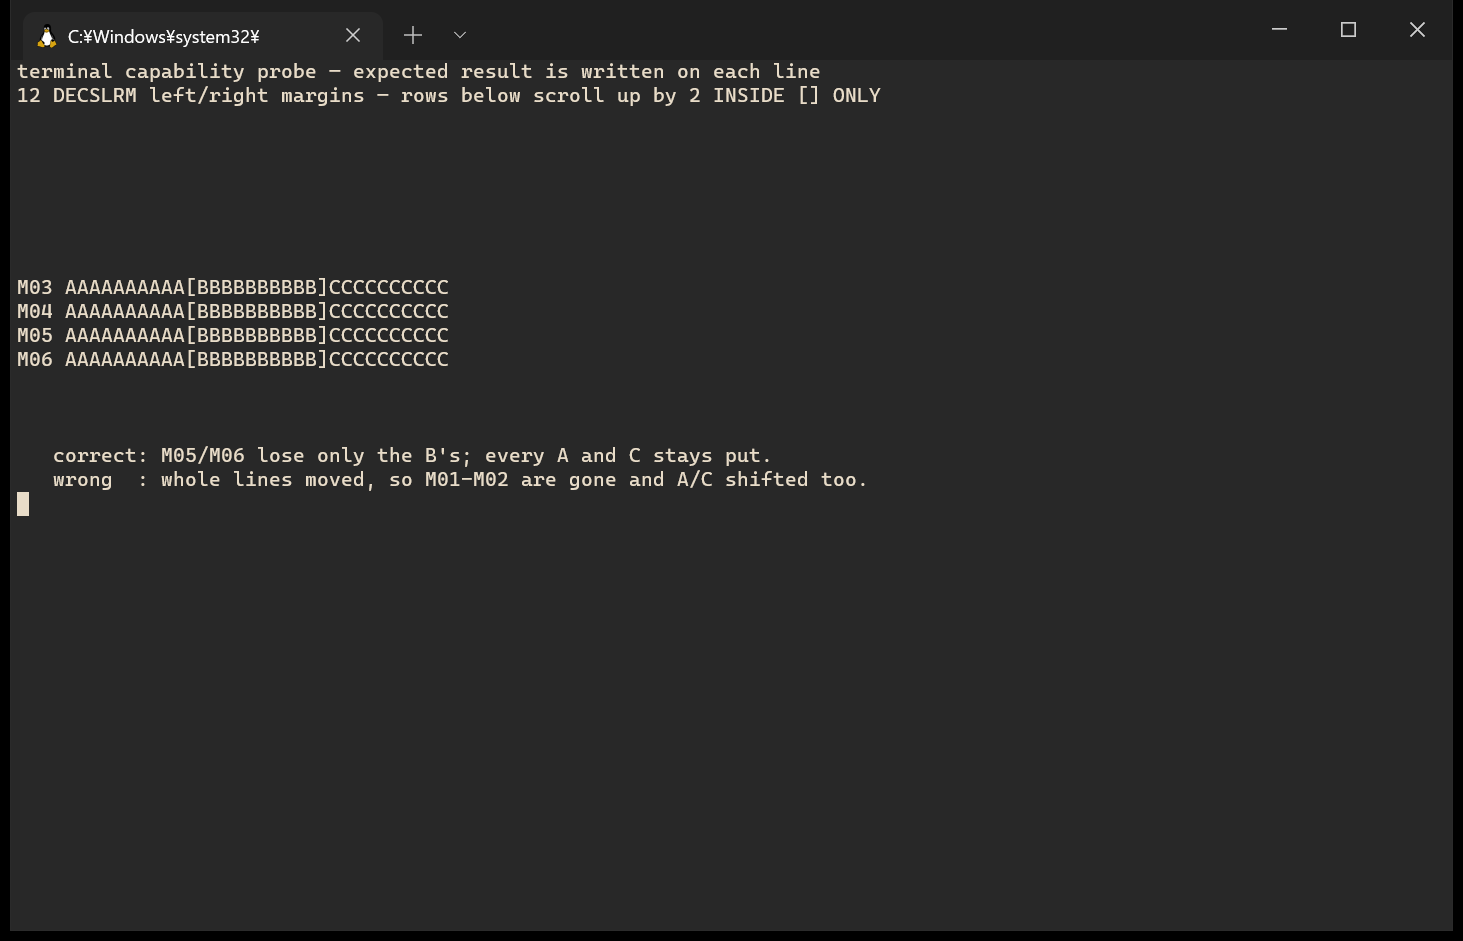
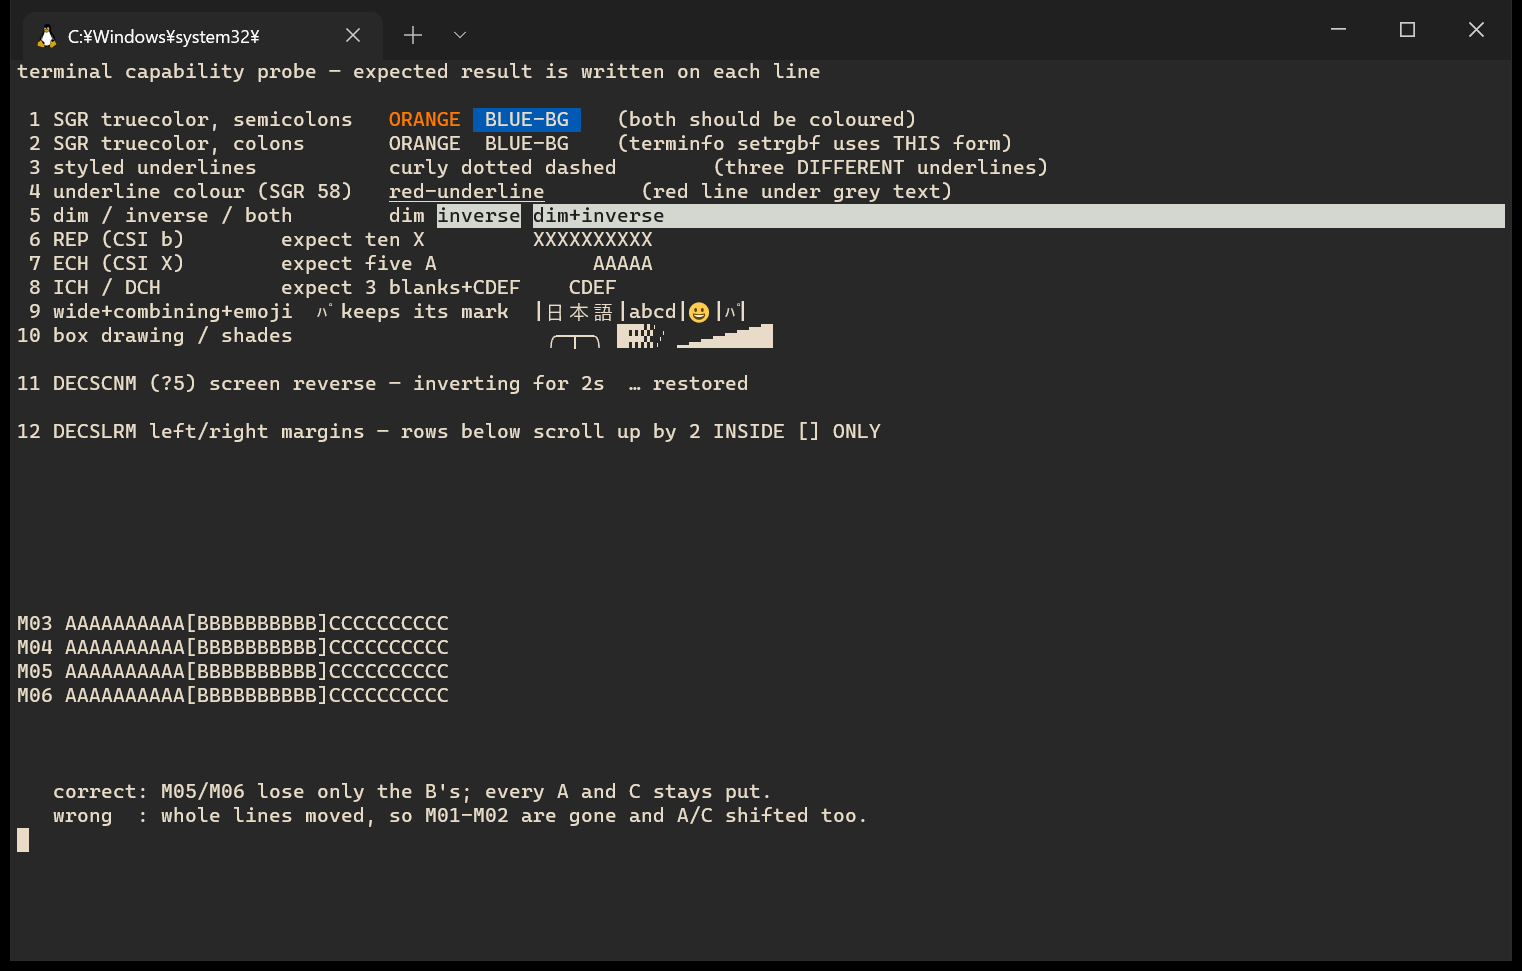
docs(compat): add wezterm, and say what the in-box conhost really drops
wezterm belongs in this comparison: it drives the shell through a ConPTY
pair it sideloads beside its exe, exactly as we do, so it is a like-for-like
engine reading rather than a screenshot of the system host.

The shipping stable, 20240203, fails rows 2, 3 and 4 — and they share a
cause. All three are colon-separated SGR sub-parameters; the semicolon forms
work and the plain CSI 4 m underline appears. Only the colon syntax is
unparsed. The 20260716 nightly closes all three and passes twelve of twelve,
so it goes in an aside: stable is what a user gets by default, but "does
wezterm support this" is honestly answered by the current code.

Colour rows are now settled by sampling pixels instead of by eye. The probe
asks for 58:2::255:80:80 and a row of exactly (255,80,80) runs the width of
"red-underline": 182 px in Windows Terminal, 169 in the nightly, zero in
wezterm 20240203.

The host section was understating its own case. Re-shot against the in-box
conhost, with the display allowed to settle first, three things are missing,
not one: DECSLRM, colon-form truecolor (the coloured band is one text row
instead of two, ~half the pixels) and the SGR 58 underline colour (not one
red pixel). That matters more than the margin row on its own, because the
xterm-ghostty entry spells setrgbf with colons — on that host a terminal
claiming the entry cannot honour its own terminfo.

It also drops the implication that old hosts are the problem. DECSLRM
[…]

diff --git a/docs/compat/README.md b/docs/compat/README.md
@@ -14,40 +14,80 @@ bash docs/compat/terminal-capability-probe.sh
 ```
 
 Captured on Windows 10 build 19045 — in-box `conhost.exe` 10.0.19041.4522,
-sideloaded `OpenConsole.exe` 1.24.2605.12001 — with the shell reached through
-`wsl.exe`. Both numbers matter; see below.
+sideloaded `OpenConsole.exe` 1.24.2607.10001 — with the shell reached through
+`wsl.exe`.
 
-The two screenshots below are the same script at the same font (Cascadia Mono
-13pt) and the same window size. Both terminals feed their shell through a
-modern ConPTY — RikkaTerminal through the `conpty.dll` + `OpenConsole.exe`
-pair it ships, Windows Terminal through the one it bundles — so the
-differences between them are engine behaviour. (That premise is not free on
-Windows; see [On Windows the console host counts too](#on-windows-the-console-host-counts-too).)
+## How these were captured, and where they fall short
 
-## RikkaTerminal
+Two things about this machine are worth stating up front, because both cost
+us a wrong reading before they were understood.
 
-![RikkaTerminal running the probe](probe-rikka-terminal.png)
+**The font is not pinned across all three.** Windows Terminal and
+RikkaTerminal are both Cascadia Mono 13pt. wezterm is **not**: on this machine
+`wezterm.font('Cascadia Mono')` aborts the process inside DirectWrite —
+`dwrote-0.11.0/src/font_family.rs:53: assertion failed: hr == 0` — and it does
+so in the 2024 stable and the 2026 nightly alike, so it is the environment
+rather than one build. The wezterm shots therefore use its default font at
+11pt. Compare the capabilities, not the typography, and do not read anything
+into glyph shapes in those two images.
+
+**The screen is not stable immediately after the probe.** Line 11 restores
+from DECSCNM with `?5l`, and for several seconds afterwards a repaint can be
+incomplete — foreground text missing while backgrounds and emoji are already
+there. Screenshots taken ~10s in were missing the first ten lines entirely;
+the same window at ~30s was complete. Seen on wezterm and on RikkaTerminal
+driven by the in-box conhost. **Wait for the display to settle before
+capturing**, or you will publish a picture of a repaint and call it a
+capability.
+
+Captures here are taken with `PrintWindow(PW_RENDERFULLCONTENT)` against a
+background window, from a DPI-aware process. Never with synthetic keystrokes:
+those go to whatever holds focus, which is not necessarily the window under
+test (see the warning at the top of `e2e/rikka-sixel-local.ps1`).
 
 ## Windows Terminal
 
 ![Windows Terminal running the probe](probe-windows-terminal.png)
 
+## wezterm
+
+![wezterm running the probe](probe-wezterm.png)
+
+`wezterm-gui.exe 20240203-110809-5046fc22` — the current stable install on
+this machine.
+
+## RikkaTerminal
+
+![RikkaTerminal running the probe](probe-rikka-terminal.png)
+
 ## Results
 
-| # | Capability | Windows Terminal | RikkaTerminal |
-|---|------------|------------------|---------------|
-| 1 | SGR truecolor, semicolons | yes | yes |
-| 2 | SGR truecolor, **colons** (`38:2:r:g:b`) | **no** | **yes** |
-| 3 | Styled underlines (curly / dotted / dashed) | yes | yes |
-| 4 | Underline colour (SGR 58) | yes | yes |
-| 5 | dim / inverse / both | yes | yes |
-| 6 | REP (`CSI b`) | yes | yes |
-| 7 | ECH (`CSI X`) | yes | yes |
-| 8 | ICH / DCH | yes | yes |
-| 9 | Wide chars, combining marks, emoji | mark dropped from `ﾊﾟ` | composed |
-| 10 | Box drawing and shade blocks | font glyphs | drawn as geometry |
-| 11 | DECSCNM (`?5`) screen reverse | yes | yes |
-| 12 | **DECSLRM left/right margins** | yes | **yes** |
+| # | Capability | Windows Terminal | wezterm 20240203 | RikkaTerminal |
+|---|------------|------------------|------------------|---------------|
+| 1 | SGR truecolor, semicolons | yes | yes | yes |
+| 2 | SGR truecolor, **colons** (`38:2:r:g:b`) | **no** | **no** | **yes** |
+| 3 | Styled underlines (curly / dotted / dashed) | yes | **no** | yes |
+| 4 | Underline colour (SGR 58) | yes | **no** | yes |
+| 5 | dim / inverse / both | yes | yes | yes |
+| 6 | REP (`CSI b`) | yes | yes | yes |
+| 7 | ECH (`CSI X`) | yes | yes | yes |
+| 8 | ICH / DCH | yes | yes | yes |
+| 9 | Wide chars, combining marks, emoji | mark dropped from `ﾊﾟ` | composed | composed |
+| 10 | Box drawing and shade blocks | font glyphs | font glyphs | drawn as geometry |
+| 11 | DECSCNM (`?5`) screen reverse | yes | yes | yes |
+| 12 | DECSLRM left/right margins | yes | yes | yes |
+
+Rows 1, 2 and 4 are colour claims, so they were checked by sampling pixels
+rather than by eye. The SGR 58 underline is the clearest: the probe asks for
+`58:2::255:80:80`, and a row of exactly `(255, 80, 80)` runs the width of the
+words `red-underline` — 182 px in Windows Terminal, 169 px in the wezterm
+nightly, **zero** in wezterm 20240203.
+
+wezterm 20240203 fails 2, 3 and 4 together, and they have one thing in
+common: all three are **colon-separated SGR sub-parameters**. The semicolon
+forms on line 1 work, and the plain `CSI 4 m` underline on line 4 appears —
+it is only the colon syntax that is not parsed. See the aside below; the
+nightly closes all three.
 
 ## On Windows the console host counts too
 
@@ -55,7 +95,8 @@ Every terminal here drives the shell through ConPTY, so what reaches its
 engine is whatever the console host chose to forward. **Which host** matters
 as much as the engine. RikkaTerminal ships `conpty.dll` and `OpenConsole.exe`
 beside the exe and drives that pair directly; Windows Terminal bundles its
-own; everything else falls back to the copy in `C:\Windows\System32`.
+own; wezterm bundles its own; everything else falls back to the copy in
+`C:\Windows\System32`.
 
 That fallback is not equivalent. Below is the *same RikkaTerminal binary* —
 the engine that produced the correct picture above — with the sideloaded pair
@@ -63,30 +104,62 @@ removed so it lands on the in-box conhost:
 
 ![RikkaTerminal forced onto the system conhost](probe-rikka-on-system-conhost.png)
 
-The margin block comes out in the "wrong" shape: whole lines moved, `M01`/`M02`
-scrolled away, every `B` still present. The fence never arrives, so whether the
-engine implements DECSLRM stops mattering.
+Three things are gone, and the same pixel sampling shows it:
 
-**This is one host version, not a law.** These captures are from Windows 10
-build 19045, whose in-box `conhost.exe` reports 10.0.19041.4522 — a 2020-era
-build, against the 1.24.2605 OpenConsole shipped beside the exe. Later Windows
-releases ship a console host built from the OpenConsole sources, so the
-in-box path there is expected to behave differently; nothing here measures
-that. Read this section as "the host is a variable, and on this machine it is
-the older one", not as a verdict on `conhost.exe` in general.
+- **DECSLRM.** The margin block comes out in the "wrong" shape the probe
+  names: whole lines moved, `M01`/`M02` scrolled away, every `B` still
+  present. The fence never arrives, so whether the engine implements the
+  sequence stops mattering.
+- **Colon-form truecolor.** Line 2 loses its colour entirely. The coloured
+  band is one text row tall instead of two, with about half the coloured
+  pixels (362 orange / 2073 blue, against 636 / 3922 through the sideloaded
+  pair).
+- **Underline colour.** Not one pixel of `(255, 80, 80)` survives, against
+  143 through the sideloaded pair.
 
-It is also why the sideloaded pair is not a developer convenience. A host of
+That last pair is worse than it looks for a terminal in our position. The
+`xterm-ghostty` entry spells `setrgbf` with **colons**, so the colon form is
+what an application actually sends once it believes the terminfo. On the
+in-box conhost a terminal claiming that entry **cannot honour its own
+terminfo**, however correct its engine is.
+
+**This is one host build, not a rule about old hosts.** It is tempting to
+read "in-box conhost is old, old hosts drop things" — but the measurements do
+not support the general claim. DECSLRM survives three different bundled
+generations:
+
+| Host | Origin | DECSLRM |
+|---|---|---|
+| ConPTY 2024-era (no version resource) | wezterm 20240203 | forwarded |
+| ConPTY 1.22.2502.04002 | wezterm nightly 20260716 | forwarded |
+| ConPTY 1.24.2607.10001 | RikkaTerminal / Windows Terminal | forwarded |
+| conhost 10.0.19041.4522 | in-box, Windows 10 19045 | **stripped** |
+
+The wezterm nightly forwards it through a host **older** than the one we
+ship. So this is the behaviour of that particular in-box build, not a
+property of age.
+
+It is still why the sideloaded pair is not a developer convenience. A host of
 this vintage is not an artefact of one stale desktop: Server releases, the
 LTSC and IoT LTSC channels, and machines carried on extended security updates
 all keep the console host they shipped with, for support horizons measured in
-years. A terminal that only behaves correctly on an up-to-date consumer
-Windows would be broken on a large, long-lived slice of the fleet. Carrying
-`conpty.dll` + `OpenConsole.exe` makes the host a known quantity instead of
-an environment variable.
+years. Carrying `conpty.dll` + `OpenConsole.exe` makes the host a known
+quantity instead of an environment variable.
 
-The consequence for the two screenshots below is the same either way: taken on
-this machine's system conhost, neither can tell you what its terminal's engine
-supports.
+## Asides
+
+### wezterm nightly
+
+![wezterm nightly running the probe](probe-wezterm-nightly.png)
+
+`wezterm-gui.exe 20260716-195552-76b606ec` passes **all twelve**, including
+the three colon-form rows the 2024 stable fails. It is not in the main table
+because it is a nightly build a user has to go and fetch, while the stable
+install is what one gets by default — but it is the honest answer to "does
+wezterm support this": the current code does, the shipping stable does not.
+
+Worth recording that it does so through ConPTY **1.22.2502.04002**, an older
+host than the 1.24.2607.10001 we carry.
 
 ### Alacritty (upstream, system conhost)
 
@@ -96,27 +169,24 @@ RikkaTerminal's engine is a vendored fork of `alacritty_terminal`, and DECSLRM
 is one of the local additions: upstream keeps no margin state, and its vte
 dependency does not even hand `CSI s` to the terminal with its parameters. So
 the margin row is answerable from source rather than from this screenshot — it
-would fail on the engine's own merits, host notwithstanding. The other rows are
-the shared inheritance, and they match.
+would fail on the engine's own merits, host notwithstanding. The other rows
+are the shared inheritance, and they match.
 
 ### Konsole for Windows (system conhost)
 
 ![Konsole for Windows running the probe](probe-konsole-via-conpty.png)
 
-Konsole's own engine is not on trial here, for the same reason.
+Konsole's own engine is not on trial here, for the same reason: taken on this
+machine's system conhost, the screenshot cannot tell you what the engine
+supports.
 
 ## Notes
 
-Line 2 matters more than it looks: the `xterm-ghostty` entry spells `setrgbf`
-with **colons**, so this is the form an application actually sends when it
-believes it is talking to ghostty. Windows Terminal never claims that entry,
-so nothing is broken there — but a terminal that does claim it has to accept
-the colon form, and RikkaTerminal does.
-
-Line 12 is the one that was missing until DECSLRM was implemented. tmux scrolls
-a single pane by fencing the scroll into that pane's column band; a terminal
-that ignores the fence scrolls the full width and drags the neighbouring panes
-with it. Their content leaves the grid, and tmux — believing the terminal did
-as it was told — never resends it, so panes that produce no further output stay
-blank until a forced redraw. The probe's last block reproduces exactly that:
-if margins are honoured only the `B`s vanish, and every `A` and `C` stays put.
+Line 12 is the one that was missing until DECSLRM was implemented. tmux
+scrolls a single pane by fencing the scroll into that pane's column band; a
+terminal that ignores the fence scrolls the full width and drags the
+neighbouring panes with it. Their content leaves the grid, and tmux —
+believing the terminal did as it was told — never resends it, so panes that
+produce no further output stay blank until a forced redraw. The probe's last
+block reproduces exactly that: if margins are honoured only the `B`s vanish,
+and every `A` and `C` stays put.
